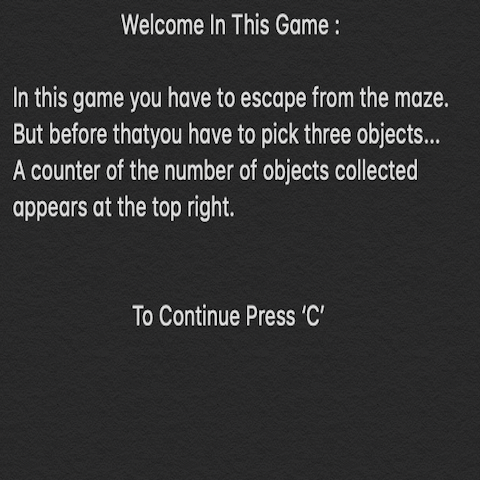
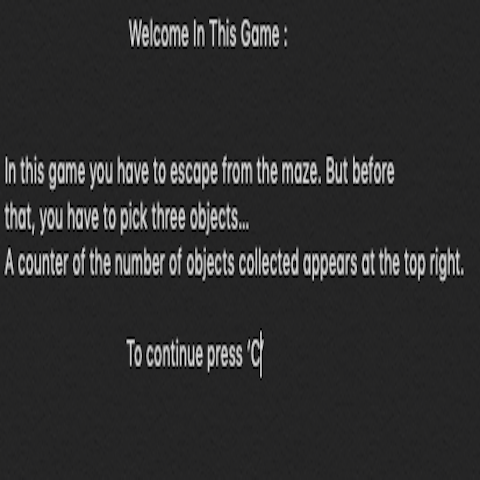
Change menu picture

Changed region(s): [[0.0, 0.1562, 0.9688, 0.5938], [0.25, 0.625, 0.6875, 0.7812], [0.25, 0.0312, 0.6875, 0.125]]

diff --git a/classes.py b/classes.py
@@ -63,20 +63,15 @@ class Maze:
             return False
         else:
             return True
-    
+
     def response(self, charac, objects):
-        #print("dans end game ==>", objects.objects_collected)
+
         if charac.position == [14, 14] and objects.objects_collected == 3:
-            #print("GAGNÉ")
+
             return True
         elif charac.position == [14, 14] and objects.objects_collected != 3:
-            #print("PERDU")
+
             return False
-
-
-
-# class Menu:
-#     def __init__()
 
 
 class Charac:
@@ -170,14 +165,10 @@ class Object:
             self.x = random.randrange(0, 14, 1)
             self.y = random.randrange(0, 14, 1)
 
-            #print("X ===> ", self.x)
-            #print("Y ===> ", self.y)
-            #print("carac ===> ", self.maze.structure[self.x][self.y])
-
             if self.maze.structure[self.y][self.x] == "0":
                 self.position.extend([self.x, self.y])
                 searching = False
-        #print("random position ===>", self.position)
+
         return self.position
 
     def display_object(self):
@@ -193,12 +184,6 @@ class Object:
             self.ether_position = self.generate_random_position()
             self.syringe_position = self.generate_random_position()
             self.needle_position = self.generate_random_position()
-
-            #print("ether position in method display_object ==> ", self.ether_position)
-            #print(
-            #    "syringe position in method display_object ==> ", self.syringe_position
-            #)
-            #print("needle position in method display_object ==> ", self.needle_position)
 
             self.ether_position_pix = [i * SPRITE_SIZE for i in self.ether_position]
             self.syringe_position_pix = [i * SPRITE_SIZE for i in self.syringe_position]
@@ -220,7 +205,6 @@ class Object:
         self.objects_collected = self.i + self.j + self.k
         self.display_object_collected(self.objects_collected, ONE, TWO, THREE, WALL)
 
-        #print(self.objects_collected)
         return self.objects_collected
 
     def display_object_collected(
@@ -265,7 +249,7 @@ class Play:
         self.objects.display_object()
         self.objects.objects_collected = 0
 
-        #RUN PROGRAM
+        # RUN PROGRAM
         self.run = True
         self.response = None
 
@@ -273,27 +257,27 @@ class Play:
         self.menu = pygame.image.load(menu_pic).convert_alpha()
         self.window.blit(self.menu, ((0, 0)))
 
-        continuer = True
-        while continuer:
+        continu = True
+        while continu:
             pygame.display.update()
             for event in pygame.event.get():
                 # Waiting for events
                 if event.type == pygame.QUIT:
-                    continuer = False
+                    continu = False
                     return False
                 if event.type == pygame.KEYDOWN:
                     if event.key == pygame.K_c:
-                        continuer = False 
+                        continu = False
                         return True
-            
+
     def play(self):
-        continuer = True
-        while continuer:
+        continu = True
+        while continu:
             pygame.display.update()
             for event in pygame.event.get():
                 # Waiting for events
                 if event.type == pygame.QUIT:
-                    continuer = False
+                    continu = False
                     self.run = False
                 if event.type == pygame.KEYDOWN:
                     if event.key == pygame.K_RIGHT:
@@ -305,44 +289,42 @@ class Play:
                     elif event.key == pygame.K_DOWN:
                         self.mac_gyver.move("down")
                     self.objects.collecting_objects(self.mac_gyver)
-                    continuer = self.maze.end_game(self.mac_gyver)
+                    continu = self.maze.end_game(self.mac_gyver)
                     self.response = self.maze.response(self.mac_gyver, self.objects)
-                    print('response ==>', self.response)
-                    #print(self.mac_gyver.position)
+
             pygame.display.flip()
         return self.response
-        
 
     def end_game1(self, end_game1_pic):
         self.end_game1_pic = pygame.image.load(end_game1_pic).convert_alpha()
         self.window.blit(self.end_game1_pic, ((0, 0)))
 
-        continuer = True
-        while continuer:
+        continu = True
+        while continu:
             pygame.display.update()
             for event in pygame.event.get():
                 # Waiting for events
                 if event.type == pygame.QUIT:
-                    continuer = False
+                    continu = False
                     self.run = False
                 if event.type == pygame.KEYDOWN:
                     if event.key == pygame.K_c:
-                        continuer = False 
+                        continu = False
                         return True
-    
+
     def end_game2(self, end_game2_pic):
         self.end_game2_pic = pygame.image.load(end_game2_pic).convert_alpha()
         self.window.blit(self.end_game2_pic, ((0, 0)))
 
-        continuer = True
-        while continuer:
+        continu = True
+        while continu:
             pygame.display.update()
             for event in pygame.event.get():
                 # Waiting for events
                 if event.type == pygame.QUIT:
-                    continuer = False
+                    continu = False
                     self.run = False
                 if event.type == pygame.KEYDOWN:
                     if event.key == pygame.K_c:
-                        continuer = False 
+                        continu = False
                         return True

diff --git a/main.py b/main.py
@@ -8,8 +8,7 @@ def main():
 
     play = Play(window)
 
-    menu = play.menu(MENU)
-    continu = True
+    play.menu(MENU)
     run = True
     while run:
         play.init() 
@@ -18,8 +17,6 @@ def main():
             play.end_game1(END_GAME1)
         elif launch == False:
             play.end_game2(END_GAME2)
-        else : 
-            continu = False
         run = play.run
 
 if __name__ == "__main__":
